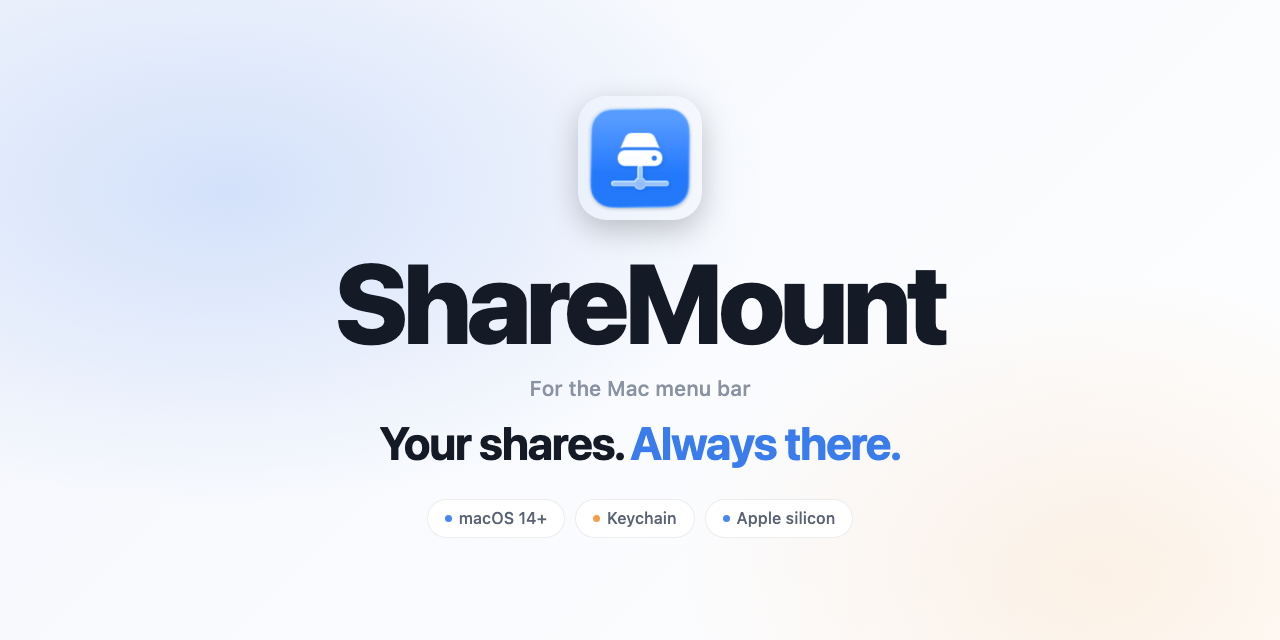
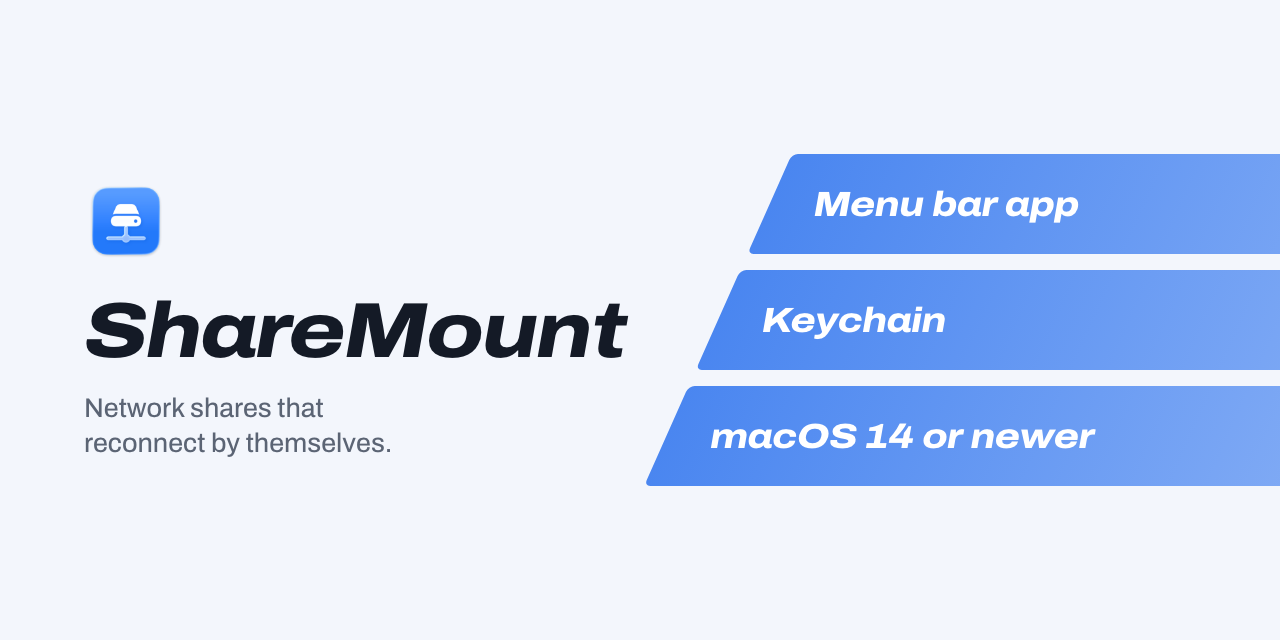
README and project page in the v2 design
Title banner with the lanes, Install and Set up as one Get started, shared
footer. The page loads theme v2 (Archivo from sh1ft-w.github.io), hero left
with the three key facts on the lanes.

Claude-Session: https://claude.ai/code/session_01TLmTtZLAvnS1BJ3w9tzxXq

diff --git a/docs/index.html b/docs/index.html
@@ -13,46 +13,42 @@
 <meta property="og:description" content="Keeps your SMB shares mounted. Reconnects after sleep, network changes and NAS restarts, right from the menu bar.">
 <meta property="og:image" content="https://sh1ft-w.github.io/sharemount/images/readme-title-social.png">
 <link rel="icon" type="image/png" href="icon.png">
-<!-- Shared SH1FT-W design (tokens, glass navigation, light/dark, DE/EN, reveal) -->
-<link rel="stylesheet" href="https://sh1ft-w.github.io/theme/v1/theme.css">
-<script src="https://sh1ft-w.github.io/theme/v1/theme.js"></script>
+<!-- Shared SH1FT-W design, version 2 (tokens, Archivo, navigation, light/dark, DE/EN, the lanes) -->
+<link rel="stylesheet" href="https://sh1ft-w.github.io/theme/v2/theme.css">
+<script src="https://sh1ft-w.github.io/theme/v2/theme.js"></script>
 <style>
 /* ShareMount-Palette: das Blau des App-Icons; Dunkel folgt dem System oder dem Schalter oben rechts */
 :root {
   --accent: var(--blue);
   --bg: #f3f6fc; --bg-2: #e9eef8; --card: #ffffff; --card-2: #eef2fa;
   --ink: #141a26; --ink-2: #5b6474; --ink-3: rgba(20,26,38,0.5);
-  --blue: #3b7ced; --blue-fill: #4a86f0; --blue-tint: rgba(74,134,240,0.12); --blue-glow: rgba(74,134,240,0.32); --on-blue: #ffffff;
+  --blue: #3b7ced; --blue-fill: #4a86f0; --blue-tint: rgba(74,134,240,0.12); --on-blue: #ffffff;
   --teal: #1f9d8c; --teal-tint: rgba(31,157,140,0.13);
   --line: rgba(60,80,120,0.14); --chip: rgba(60,90,150,0.08);
   --glass: rgba(255,255,255,0.68); --glass-line: rgba(255,255,255,0.7);
   --shadow: 0 1px 2px rgba(30,50,90,0.05), 0 12px 32px -14px rgba(30,50,90,0.22);
   --shadow-lg: 0 2px 6px rgba(30,50,90,0.05), 0 48px 100px -36px rgba(20,40,90,0.4);
   --radius: 28px; --radius-lg: 36px; --gutter: clamp(16px, 5vw, 48px); --max: 1180px;
-  --blob-1: rgba(74,134,240,0.26); --blob-2: rgba(31,157,140,0.16); --blob-3: rgba(170,200,255,0.5);
 }
 @media (prefers-color-scheme: dark) { :root:not([data-theme="light"]) {
   --bg: #0b0f17; --bg-2: #0e131c; --card: #151b27; --card-2: #1b2230;
   --ink: #eef2f8; --ink-2: rgba(200,210,228,0.86); --ink-3: rgba(200,210,228,0.55);
-  --blue: #7aa8ff; --blue-fill: #4a86f0; --blue-tint: rgba(122,168,255,0.14); --blue-glow: rgba(74,134,240,0.3); --on-blue: #ffffff;
+  --blue: #7aa8ff; --blue-fill: #4a86f0; --blue-tint: rgba(122,168,255,0.14); --on-blue: #ffffff;
   --teal: #5ecdbd; --teal-tint: rgba(94,205,189,0.14);
   --line: rgba(200,210,228,0.12); --chip: rgba(200,210,228,0.08);
   --glass: rgba(21,27,39,0.66); --glass-line: rgba(255,255,255,0.08);
   --shadow: 0 14px 34px -16px rgba(0,0,0,0.6); --shadow-lg: 0 48px 100px -36px rgba(0,0,0,0.8);
-  --blob-1: rgba(74,134,240,0.22); --blob-2: rgba(94,205,189,0.12); --blob-3: rgba(40,70,140,0.3);
 } }
 :root[data-theme="dark"] {
   --bg: #0b0f17; --bg-2: #0e131c; --card: #151b27; --card-2: #1b2230;
   --ink: #eef2f8; --ink-2: rgba(200,210,228,0.86); --ink-3: rgba(200,210,228,0.55);
-  --blue: #7aa8ff; --blue-fill: #4a86f0; --blue-tint: rgba(122,168,255,0.14); --blue-glow: rgba(74,134,240,0.3); --on-blue: #ffffff;
+  --blue: #7aa8ff; --blue-fill: #4a86f0; --blue-tint: rgba(122,168,255,0.14); --on-blue: #ffffff;
   --teal: #5ecdbd; --teal-tint: rgba(94,205,189,0.14);
   --line: rgba(200,210,228,0.12); --chip: rgba(200,210,228,0.08);
   --glass: rgba(21,27,39,0.66); --glass-line: rgba(255,255,255,0.08);
   --shadow: 0 14px 34px -16px rgba(0,0,0,0.6); --shadow-lg: 0 48px 100px -36px rgba(0,0,0,0.8);
-  --blob-1: rgba(74,134,240,0.22); --blob-2: rgba(94,205,189,0.12); --blob-3: rgba(40,70,140,0.3);
 }
 
-body { letter-spacing: -0.012em; }
 a { color: var(--blue); text-decoration: none; }
 a:hover { text-decoration: underline; text-underline-offset: 3px; }
 .wrap { max-width: var(--max); margin: 0 auto; padding: 0 var(--gutter); }
@@ -70,19 +66,17 @@ code { font: 500 0.88em/1.4 ui-monospace, "SF Mono", Menlo, monospace; letter-sp
   display: inline-flex; align-items: center; justify-content: center; gap: 8px; height: 48px; padding: 0 24px; border-radius: 999px;
   font-family: inherit; font-size: 15px; font-weight: 600; line-height: 1; letter-spacing: -0.005em;
   background: var(--blue-fill); color: var(--on-blue); border: 0; cursor: pointer;
-  box-shadow: 0 12px 28px -12px var(--blue-glow); transition: transform .2s ease, filter .2s ease, box-shadow .2s ease;
+  transition: transform .2s ease, filter .2s ease;
 }
-.btn:hover { text-decoration: none; filter: brightness(1.05); transform: translateY(-1px); box-shadow: 0 16px 32px -12px var(--blue-glow); }
+.btn:hover { text-decoration: none; filter: brightness(1.05); transform: translateY(-1px); }
 .btn.ghost { background: var(--card); color: var(--ink); box-shadow: var(--shadow); }
 .btn.small { height: 36px; padding: 0 16px; font-size: 14px; }
 .btn svg { width: 16px; height: 16px; }
 
 /* Schrift */
-.eyebrow { display: inline-flex; align-items: center; gap: 8px; font-size: 13px; font-weight: 600; letter-spacing: 0.08em; text-transform: uppercase; color: var(--blue); margin: 0 0 18px; }
-.eyebrow::before { content: ""; width: 8px; height: 8px; border-radius: 50%; background: var(--blue); box-shadow: 0 0 0 4px var(--blue-tint); }
-h1, h2, h3 { margin: 0; color: var(--ink); font-weight: 800; font-family: -apple-system, BlinkMacSystemFont, "SF Pro Display", Inter, system-ui, sans-serif; }
+.eyebrow { display: inline-flex; align-items: center; gap: 8px; font-size: 13px; font-weight: 600; color: var(--blue); margin: 0 0 18px; }
+h1, h2, h3 { margin: 0; color: var(--ink); font-weight: 800; font-family: var(--display); }
 h1 { font-size: clamp(48px, 8.4vw, 104px); line-height: 0.98; letter-spacing: -0.045em; }
-h1 em { font-style: normal; color: var(--blue); }
 h2 { font-size: clamp(36px, 5.4vw, 64px); line-height: 1.02; letter-spacing: -0.04em; }
 h3 { font-size: 21px; line-height: 1.2; letter-spacing: -0.02em; font-weight: 700; }
 .lead { font-size: clamp(19px, 2.1vw, 23px); line-height: 1.45; color: var(--ink-2); letter-spacing: -0.012em; margin: 24px 0 0; }
@@ -100,16 +94,7 @@ section.tint { background: var(--bg-2); }
 .shot img { width: 100%; }
 .cap { margin-top: 18px; font-size: 15px; color: var(--ink-3); text-align: center; }
 
-/* Hero mit weichem Farbschleier */
-.hero { padding: clamp(64px, 10vw, 120px) 0 clamp(64px, 9vw, 112px); text-align: center; }
-.hero .glow { position: absolute; inset: -30% -10% auto; height: 90%; z-index: 0; pointer-events: none;
-  background:
-    radial-gradient(42% 38% at 22% 28%, var(--blob-1), transparent 70%),
-    radial-gradient(36% 34% at 78% 22%, var(--blob-2), transparent 70%),
-    radial-gradient(50% 40% at 50% 70%, var(--blob-3), transparent 70%);
-  filter: blur(48px); opacity: .7; }
-.hero .wrap { position: relative; z-index: 1; }
-.hero .appicon { width: 112px; height: 112px; margin: 0 auto 24px; filter: drop-shadow(0 18px 30px var(--blue-glow)); }
+/* Hero */
 .hero .lead { max-width: 640px; margin-left: auto; margin-right: auto; }
 .cta { display: flex; flex-wrap: wrap; gap: 12px; justify-content: center; margin-top: 36px; }
 .meta { margin-top: 22px; font-size: 14px; color: var(--ink-3); display: flex; flex-wrap: wrap; gap: 8px 14px; justify-content: center; align-items: center; }
@@ -117,24 +102,23 @@ section.tint { background: var(--bg-2); }
 .pill i { width: 7px; height: 7px; border-radius: 50%; background: var(--teal); display: inline-block; }
 
 /* Bühne: Menü und Update-Fenster nebeneinander */
-.stage { display: flex; justify-content: center; align-items: flex-start; gap: 40px; margin-top: clamp(48px, 7vw, 80px); flex-wrap: wrap; }
+.stage { display: flex; justify-content: flex-start; align-items: flex-start; gap: 40px; margin-top: clamp(48px, 7vw, 80px); flex-wrap: wrap; }
 .stage figure { margin: 0; }
 .stage .menu { width: 330px; max-width: 100%; }
 .stage .menu .shot { border-radius: 18px; }
 .stage .side { width: 500px; max-width: 100%; padding-top: 64px; }
 .stage .side .shot { border-radius: 16px; }
-.hero .stage .shot { box-shadow: 0 2px 6px rgba(30,50,90,0.05), 0 60px 120px -50px var(--blue-glow), var(--shadow-lg); }
 
 /* Neu dabei: Bento */
 .bento { display: grid; grid-template-columns: repeat(12, 1fr); gap: 16px; }
 .b { background: var(--card); border-radius: var(--radius); box-shadow: var(--shadow); overflow: hidden; display: flex; flex-direction: column; position: relative; min-width: 0; }
 .b .txt { padding: 26px 28px 28px; }
-.b .txt .k { display: inline-block; font-size: 12px; font-weight: 600; letter-spacing: 0.06em; text-transform: uppercase; color: var(--teal); background: var(--teal-tint); padding: 4px 10px; border-radius: 999px; margin-bottom: 14px; }
+.b .txt .k { display: inline-block; font-size: 12px; font-weight: 600; color: var(--teal); background: var(--teal-tint); padding: 4px 10px; border-radius: 999px; margin-bottom: 14px; }
 .b h3 { margin-bottom: 8px; }
 .b p { color: var(--ink-2); font-size: 16px; }
 .b .pic { background: var(--card-2); padding: 22px; display: flex; justify-content: center; align-items: center; flex: 1; }
-.b .pic img { border-radius: 14px; box-shadow: 0 10px 30px -12px rgba(0,0,0,.28); }
-.b .big { display: block; font-size: clamp(40px, 5vw, 56px); line-height: 1; font-weight: 800; letter-spacing: -0.045em; color: var(--blue); margin: 10px 0 14px; font-family: -apple-system, BlinkMacSystemFont, "SF Pro Display", Inter, system-ui, sans-serif; }
+.b .pic img { border-radius: 14px; }
+.b .big { display: block; font-size: clamp(40px, 5vw, 56px); line-height: 1; font-weight: 800; letter-spacing: -0.045em; color: var(--blue); margin: 10px 0 14px; font-family: var(--display); }
 .b .list { list-style: none; margin: 18px 0 0; padding: 0; display: grid; gap: 10px; }
 .b .list li { display: flex; gap: 12px; align-items: flex-start; color: var(--ink-2); font-size: 15px; line-height: 1.45; }
 .b .list li::before { content: ""; flex: none; width: 18px; height: 18px; margin-top: 2px; border-radius: 50%; background: var(--blue-tint);
@@ -143,11 +127,11 @@ section.tint { background: var(--bg-2); }
 
 /* Funktionen: Kacheln mit Symbol */
 .tiles { display: grid; grid-template-columns: repeat(3, 1fr); gap: 16px; }
-.whenmap { max-width: 920px; margin: 0 auto clamp(40px, 5vw, 64px); background: var(--card); border-radius: 22px; padding: 8px 28px; box-shadow: 0 1px 2px rgba(0,0,0,0.04); }
+.whenmap { max-width: 920px; margin: 0 0 clamp(40px, 5vw, 64px); background: var(--card); border-radius: 22px; padding: 8px 28px; box-shadow: 0 1px 2px rgba(0,0,0,0.04); }
 .whenmap .row { display: grid; grid-template-columns: 1fr 1fr; gap: 24px; padding: 14px 0; border-top: 1px solid var(--line); font-size: 16px; line-height: 1.45; color: var(--ink-2); }
 .whenmap .row:first-child { border-top: 0; }
 .whenmap .row > span:first-child { color: var(--ink); }
-.whenmap .row.th { font-size: 13px; font-weight: 600; letter-spacing: 0.04em; text-transform: uppercase; color: var(--ink-3); }
+.whenmap .row.th { font-size: 13px; font-weight: 600; color: var(--ink-3); }
 .whenmap .row.th > span:first-child { color: var(--ink-3); }
 @media (max-width: 640px) { .whenmap .row { grid-template-columns: 1fr; gap: 4px; } .whenmap { padding: 4px 18px; } }
 .tile { background: var(--card); border-radius: var(--radius); padding: 28px; box-shadow: var(--shadow); }
@@ -156,7 +140,7 @@ section.tint { background: var(--bg-2); }
 .tile .ico { width: 48px; height: 48px; border-radius: 16px; background: var(--blue-tint); color: var(--blue); display: grid; place-items: center; margin-bottom: 18px; }
 .tile .ico svg { width: 24px; height: 24px; }
 .wide { margin-top: 20px; }
-.wide .shot { max-width: 760px; margin: 0 auto; }
+.wide .shot { max-width: 760px; }
 
 /* Zweispaltig und Zahlen */
 .split { display: grid; grid-template-columns: 1fr 1.25fr; gap: clamp(40px, 6vw, 88px); align-items: center; }
@@ -164,7 +148,7 @@ section.tint { background: var(--bg-2); }
 .split.flip > :first-child { order: 2; }
 .facts { display: grid; grid-template-columns: repeat(3, 1fr); gap: 16px; margin-top: clamp(48px, 6vw, 80px); }
 .fact { background: var(--card); border-radius: var(--radius); padding: 28px; box-shadow: var(--shadow); }
-.fact b { display: block; font-size: clamp(40px, 5vw, 56px); line-height: 1; font-weight: 800; letter-spacing: -0.045em; color: var(--blue); font-family: -apple-system, BlinkMacSystemFont, "SF Pro Display", Inter, system-ui, sans-serif; }
+.fact b { display: block; font-size: clamp(40px, 5vw, 56px); line-height: 1; font-weight: 800; letter-spacing: -0.045em; color: var(--blue); font-family: var(--display); }
 .fact span { display: block; margin-top: 12px; color: var(--ink-2); font-size: 16px; line-height: 1.45; }
 .facts.rows { grid-template-columns: 1fr; gap: 12px; margin-top: 0; }
 .facts.rows .fact { display: flex; align-items: center; gap: 22px; padding: 22px 26px; }
@@ -189,7 +173,7 @@ section.tint { background: var(--bg-2); }
 .req li { display: flex; gap: 14px; align-items: baseline; padding: 15px 0; border-top: 1px solid var(--line); font-size: 16px; }
 .req li:first-child { border-top: 0; padding-top: 6px; }
 .req .name { color: var(--ink); font-weight: 600; flex: 1; }
-.tag { flex: none; font-size: 12px; font-weight: 600; letter-spacing: 0.04em; text-transform: uppercase; padding: 4px 10px; border-radius: 999px; background: var(--blue-tint); color: var(--blue); }
+.tag { flex: none; font-size: 12px; font-weight: 600; padding: 4px 10px; border-radius: 999px; background: var(--blue-tint); color: var(--blue); }
 .tag.opt { background: var(--chip); color: var(--ink-3); }
 .note { margin-top: 20px; font-size: 14px; color: var(--ink-3); }
 .manual { grid-column: 1 / -1; }
@@ -223,10 +207,9 @@ footer .fine { flex-basis: 100%; }
 }
 @media (max-width: 640px) {
   body { font-size: 16px; }
-  :root { --radius: 24px; --radius-lg: 28px; }
   .nav { gap: 10px; }
-  .nav .btn { margin-left: auto; }
-  .hero .appicon { width: 92px; height: 92px; }
+  .nav .iconbtn { margin-left: auto; }
+  .nav .btn { display: none; }
   .stage { gap: 28px; }
   .facts { grid-template-columns: 1fr; gap: 12px; }
   .fact { padding: 22px 24px; display: flex; align-items: center; gap: 18px; }
@@ -237,6 +220,44 @@ footer .fine { flex-basis: 100%; }
   .steps li { padding-left: 48px; }
   .panel { padding: 26px 22px; }
 }
+
+/* ---- theme v2 ---- */
+:root { --font: "Archivo", -apple-system, BlinkMacSystemFont, system-ui, sans-serif; --display: var(--font); --mono: ui-monospace, "SF Mono", Menlo, monospace;
+  --accent-ink: var(--blue); --on-accent: var(--on-blue); --lane-a: #3b7ced; --lane-b: #7aa8ff; --radius: 20px; --radius-lg: 28px; --max: 1200px; }
+body { font-family: var(--font); }
+h1, h2, h3 { font-family: var(--display); }
+h1 { font-size: clamp(34px, 4.8vw, 68px); line-height: 1.02; font-weight: 800; font-stretch: 118%; font-style: italic; letter-spacing: -0.025em; }
+h2 { font-size: clamp(30px, 3.8vw, 48px); line-height: 1.08; font-weight: 750; font-stretch: 112%; letter-spacing: -0.02em; }
+.split h2 { font-size: clamp(28px, 3.4vw, 44px); }
+h3 { font-stretch: 106%; letter-spacing: -0.01em; }
+h1 em, h2 em { color: inherit; font-style: inherit; }
+.center { text-align: left; } .center .lead { margin-left: 0; margin-right: 0; }
+.head { max-width: 50em; }
+.eyebrow { font-size: 16px; font-weight: 650; margin-bottom: 12px; }
+.cap { text-align: left; }
+.btn { border-radius: 12px; }
+.btn.ghost { background: var(--chip); box-shadow: none; }
+.pill { box-shadow: none; background: var(--chip); border-radius: 8px; }
+.shot { box-shadow: none; }
+.shot::after { box-shadow: inset 0 0 0 1px var(--line); }
+.b, .tile, .panel, .card, .servers, .fact, .whenmap { box-shadow: none; border: 1px solid var(--line); }
+.chip { box-shadow: inset 0 0 0 1px var(--line); border-radius: 8px; }
+.copy { box-shadow: none; border: 1px solid var(--line); border-radius: 8px; }
+.b .txt .k, .tag { font-size: 13px; }
+.b .txt .k, .tag { border-radius: 6px; }
+.tile .ico { border-radius: 10px; }
+.credits { text-align: left; }
+.credits p:not(.eyebrow) { margin: 0; }
+.credits .narrow { max-width: var(--max); }
+.hero { text-align: left; padding: clamp(48px, 7vw, 96px) 0 clamp(56px, 7vw, 96px); overflow: hidden; }
+.hero-top { display: grid; grid-template-columns: minmax(0, 1.15fr) minmax(0, 1fr); gap: clamp(24px, 4vw, 64px); align-items: center; }
+.hero .mark { width: 64px; height: 64px; margin-bottom: 26px; }
+.hero .lead { margin-left: 0; max-width: 34em; }
+.cta, .meta { justify-content: flex-start; }
+.hero .s-lanes { margin: 0 calc(-1 * var(--gutter) - 14vw) 0 clamp(40px, 5vw, 72px); }
+.s-track b { color: #fff; font: italic 800 clamp(20px, 2.5vw, 34px)/1 var(--font); font-stretch: 116%; letter-spacing: -0.015em; white-space: nowrap; }
+@media (max-width: 900px) { .hero-top { grid-template-columns: 1fr; } .hero .s-lanes { margin: 8px calc(-1 * var(--gutter) - 8vw) 0 44px; } }
+.b .big, .fact b { font-stretch: 112%; letter-spacing: -0.02em; }
 </style>
 </head>
 <body>
@@ -261,20 +282,27 @@ footer .fine { flex-basis: 100%; }
 </div>
 
 <section class="hero" id="top">
-  <div class="glow" aria-hidden="true"></div>
-  <div class="wrap">
-    <img class="appicon reveal" src="icon.png" width="112" height="112" alt="">
-    <p class="eyebrow reveal"><span class="en">For the Mac menu bar</span><span class="de">Für die Menüleiste des Mac</span></p>
-    <h1 class="reveal d1"><span class="en">Your shares.<br>Always <em>there</em>.</span><span class="de">Deine Freigaben.<br>Immer <em>da</em>.</span></h1>
-    <p class="lead reveal d2"><span class="en">A small menu bar app that <strong>keeps SMB shares mounted</strong> and brings them back after sleep, network changes and NAS restarts. With the passwords macOS already keeps for the Finder.</span><span class="de">Eine kleine App für die Menüleiste, die <strong>SMB-Freigaben verbunden hält</strong> und sie nach dem Ruhezustand, nach Netzwerkwechseln und NAS-Neustarts zurückholt. Mit den Passwörtern, die macOS schon für den Finder kennt.</span></p>
-    <div class="cta reveal d3">
-      <a class="btn" href="https://github.com/SH1FT-W/sharemount/releases/latest"><svg viewBox="0 0 24 24" fill="none" stroke="currentColor" stroke-width="2.2" stroke-linecap="round" stroke-linejoin="round" aria-hidden="true"><path d="M12 3v12"/><path d="M7 10l5 5 5-5"/><path d="M4 19h16"/></svg><span class="en">Download for Mac</span><span class="de">Für den Mac laden</span></a>
-      <a class="btn ghost" href="https://github.com/SH1FT-W/sharemount"><span class="en">View on GitHub</span><span class="de">Auf GitHub ansehen</span></a>
+  <div class="wrap hero-top">
+    <div>
+      <img class="mark" src="icon.png" width="64" height="64" alt="">
+      <h1><span class="en">Your shares.<br>Always there.</span><span class="de">Deine Freigaben.<br>Immer da.</span></h1>
+      <p class="lead reveal d2"><span class="en">A small menu bar app that <strong>keeps SMB shares mounted</strong> and brings them back after sleep, network changes and NAS restarts. With the passwords macOS already keeps for the Finder.</span><span class="de">Eine kleine App für die Menüleiste, die <strong>SMB-Freigaben verbunden hält</strong> und sie nach dem Ruhezustand, nach Netzwerkwechseln und NAS-Neustarts zurückholt. Mit den Passwörtern, die macOS schon für den Finder kennt.</span></p>
+      <div class="cta reveal d3">
+        <a class="btn" href="https://github.com/SH1FT-W/sharemount/releases/latest"><svg viewBox="0 0 24 24" fill="none" stroke="currentColor" stroke-width="2.2" stroke-linecap="round" stroke-linejoin="round" aria-hidden="true"><path d="M12 3v12"/><path d="M7 10l5 5 5-5"/><path d="M4 19h16"/></svg><span class="en">Download for Mac</span><span class="de">Für den Mac laden</span></a>
+        <a class="btn ghost" href="https://github.com/SH1FT-W/sharemount"><span class="en">View on GitHub</span><span class="de">Auf GitHub ansehen</span></a>
+      </div>
+      <p class="meta reveal d3">
+        <span class="pill"><i></i><span id="sharemount-version">Version 26.10.7</span></span>
+        <span class="en">macOS 14 or later &middot; Apple silicon &middot; Free and open source</span><span class="de">macOS 14 oder neuer &middot; Apple Chip &middot; Kostenlos und Open Source</span>
+      </p>
     </div>
-    <p class="meta reveal d3">
-      <span class="pill"><i></i><span id="sharemount-version">Version 26.10.7</span></span>
-      <span class="en">macOS 14 or later &middot; Apple silicon &middot; Free and open source</span><span class="de">macOS 14 oder neuer &middot; Apple Chip &middot; Kostenlos und Open Source</span>
-    </p>
+    <div class="s-lanes" aria-hidden="true">
+      <div class="s-lane"><div class="s-track"><b><span class="en">Menu bar app</span><span class="de">App für die Menüleiste</span></b></div></div>
+      <div class="s-lane"><div class="s-track"><b><span class="en">Keychain</span><span class="de">Schlüsselbund</span></b></div></div>
+      <div class="s-lane"><div class="s-track"><b><span class="en">macOS 14 or newer</span><span class="de">macOS 14 oder neuer</span></b></div></div>
+    </div>
+  </div>
+  <div class="wrap">
     <div class="stage reveal d3">
       <figure class="menu">
         <div class="shot">

diff --git a/README.md b/README.md
@@ -2,14 +2,14 @@
 
 <picture>
   <source media="(prefers-color-scheme: dark)" srcset="docs/images/readme-title-dark.webp" />
-  <img src="docs/images/readme-title-light.webp" alt="ShareMount: Your shares. Always there." />
+  <img src="docs/images/readme-title-light.webp" alt="ShareMount: Network shares that reconnect by themselves. Menu bar app. Keychain. macOS 14 or newer." />
 </picture>
 
 [![Version](https://img.shields.io/badge/dynamic/xml?url=https%3A%2F%2Fraw.githubusercontent.com%2FSH1FT-W%2Fsharemount%2Fmain%2FInfo.plist&query=%2F%2Fkey%5B.%3D%27CFBundleShortVersionString%27%5D%2Ffollowing-sibling%3A%3Astring%5B1%5D&label=version&style=flat-square&color=4A86F0&labelColor=0B0F17)](https://github.com/SH1FT-W/sharemount/releases/latest)
-[![macOS](https://img.shields.io/badge/macOS-14%2B%20Apple%20silicon-4A86F0?style=flat-square&labelColor=0B0F17&logo=apple&logoColor=white)](#set-up)
+[![macOS](https://img.shields.io/badge/macOS-14%2B%20Apple%20silicon-4A86F0?style=flat-square&labelColor=0B0F17&logo=apple&logoColor=white)](#get-started)
 [![Download](https://img.shields.io/badge/download-ShareMount.zip-4A86F0?style=flat-square&labelColor=0B0F17)](https://github.com/SH1FT-W/sharemount/releases/latest)
 
-<a href="https://sh1ft-w.github.io/sharemount"><b>Website</b></a>&emsp;<a href="#install">Install</a>&emsp;<a href="#set-up">Set up</a>&emsp;<a href="#menu">Menu</a>&emsp;<a href="#networks">Networks</a>&emsp;<a href="CHANGELOG.md">Changelog</a>
+<a href="https://sh1ft-w.github.io/sharemount"><b>Website</b></a>&emsp;<a href="#get-started">Get started</a>&emsp;<a href="#menu">Menu</a>&emsp;<a href="#networks">Networks</a>&emsp;<a href="CHANGELOG.md">Changelog</a>
 
 </div>
 
@@ -19,7 +19,7 @@ ShareMount is a small menu bar app that **keeps your SMB shares mounted** and br
 
 macOS mounts a share once and then forgets about it: after a wake-up or a NAS reboot the share is gone or hangs, and scripts that expect `/Volumes/Media` find `/Volumes/Media-1`. ShareMount only handles SMB and never reads or stores your passwords itself.
 
-## What it does when
+## What you get
 
 | When | ShareMount |
 |:--|:--|
@@ -33,18 +33,26 @@ macOS mounts a share once and then forgets about it: after a wake-up or a NAS re
 
 **New in 26.11:** shares that connect only on the networks you choose, Wake on LAN for servers that sleep, and signed updates: the app installs an update only if its signature matches. Every change is in the [changelog](CHANGELOG.md) and the [releases](https://github.com/SH1FT-W/sharemount/releases).
 
-<a id="install"></a>
-## Install
+<a id="get-started"></a><a id="install"></a><a id="set-up"></a>
+## Get started
 
 [![Download ShareMount](https://img.shields.io/badge/Download-ShareMount.zip-4A86F0?style=for-the-badge&labelColor=0B0F17&logo=apple&logoColor=white)](https://github.com/SH1FT-W/sharemount/releases/latest)
 
-Unzip `ShareMount.zip` and move `ShareMount.app` to **Applications** (updates can only replace it there). ShareMount is not notarized by Apple (that needs a paid developer account), so macOS blocks the first launch once: open **System Settings > Privacy & Security**, scroll to *"ShareMount" was blocked* and click **Open Anyway**, or run
+You need macOS 14 Sonoma or later (built and tested on macOS 27) on a Mac with Apple silicon. Intel Macs are not supported.
 
-```sh
-xattr -dr com.apple.quarantine /Applications/ShareMount.app
-```
+1. **Install it.** Unzip `ShareMount.zip` and move `ShareMount.app` to **Applications** (updates can only replace it there). ShareMount is not notarized by Apple (that needs a paid developer account), so macOS blocks the first launch once: open **System Settings > Privacy & Security**, scroll to *"ShareMount" was blocked* and click **Open Anyway**, or run
 
-On macOS 14 you can also right-click the app and choose **Open**. After that ShareMount updates itself.
+   ```sh
+   xattr -dr com.apple.quarantine /Applications/ShareMount.app
+   ```
+
+   On macOS 14 you can also right-click the app and choose **Open**. After that ShareMount updates itself.
+2. **Open the menu.** A drive icon appears in the menu bar (there is no Dock icon). Allow notifications and, if asked, access to the local network.
+3. **Add your shares.** Choose **Settings… > Add** and type the share, pick a server found via Bonjour or paste an `smb://` address. **Import Connected** adopts shares you already mounted in the Finder.
+4. **Sign in once.** If macOS has no password for a share yet, click it (or **Sign In…**), enter the password in the standard macOS window and tick **Remember this password in my keychain**.
+5. **Turn on Open at Login** in the menu, so ShareMount is there after every restart.
+
+With iCloud Drive on, the list of shares (not the passwords) is shared between your Macs.
 
 <details>
 <summary>Build from source</summary>
@@ -59,18 +67,6 @@ cd sharemount
 ```
 
 </details>
-
-<a id="set-up"></a>
-## Set up
-
-You need macOS 14 Sonoma or later (built and tested on macOS 27) on a Mac with Apple silicon. Intel Macs are not supported.
-
-1. **Open the menu.** A drive icon appears in the menu bar (there is no Dock icon). Allow notifications and, if asked, access to the local network.
-2. **Add your shares.** Choose **Settings… > Add** and type the share, pick a server found via Bonjour or paste an `smb://` address. **Import Connected** adopts shares you already mounted in the Finder.
-3. **Sign in once.** If macOS has no password for a share yet, click it (or **Sign In…**), enter the password in the standard macOS window and tick **Remember this password in my keychain**.
-4. **Turn on Open at Login** in the menu, so ShareMount is there after every restart.
-
-With iCloud Drive on, the list of shares (not the passwords) is shared between your Macs.
 
 <a id="menu"></a>
 ## Menu
@@ -177,3 +173,11 @@ SHAREMOUNT_LANG=en /Applications/ShareMount.app/Contents/MacOS/ShareMount   # or
 [MIT](LICENSE). Found a bug or missing something? [Open an issue](https://github.com/SH1FT-W/sharemount/issues).
 
 <sub>ShareMount is an independent project, not affiliated with Apple. The screenshots use demo data.</sub>
+
+<br/>
+
+<div align="center">
+<a href="https://sh1ft-w.github.io"><img src="https://sh1ft-w.github.io/readme/footer.png" width="640" alt="All SH1FT-W projects"></a>
+<br/>
+<sub>More open source for Home Assistant and the Mac at <a href="https://sh1ft-w.github.io">sh1ft-w.github.io</a></sub>
+</div>
